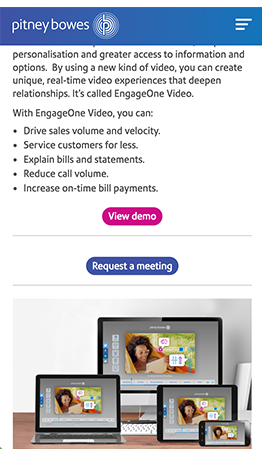
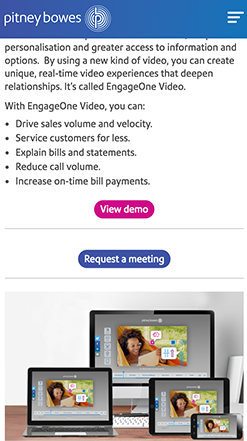
UI changes and animation effects

diff --git a/src/app/components/homepage/homepage.component.html b/src/app/components/homepage/homepage.component.html
@@ -1,3 +1,4 @@
+<div class="home" [@fadeInAnimation]>
 <header>
   <nav class="navbar navbar-expand-lg">
     <div class="container">
@@ -62,6 +63,13 @@
                     <a href="" class="white-btn">Learn More...</a>
                   </div>
                 </div>
+                <div class="item">
+                  <div class="product-info">
+                    <h1>SMB Apps</h1>
+                    <p>Lorem ipsum dolor sit amet, consectetur adipiscing elit, sed do eiusmod tempor incididunt ut labore et dolore magna aliqua. Ut enim ad minim veniam, quis nostrud exercitation ullamco laboris nisi ut aliquip ex ea commodo consequat. Duis aute irure dolor in reprehenderit in voluptate velit esse cillum dolore eu fugiat nulla pariatur.</p>
+                    <a href="" class="white-btn">Learn More...</a>
+                  </div>
+                </div>
               </owl-carousel>
             </div>
           </div>
@@ -84,6 +92,9 @@
                   </div>
                   <div class="item">
                     <img src="assets/images/homepage/li4m_screenshot.png" alt="">
+                  </div>
+                  <div class="item">
+                    <img src="assets/images/homepage/smbappsbg.png" alt="">
                   </div>
                 </owl-carousel>
               </div>
@@ -224,7 +235,7 @@
   <div class="container">
     <div class="row">
       <div class="col-md-12">
-        <div class="d-flex justify-content-between">
+        <div class="d-flex justify-content-between align-items-center">
             <h4>View our recently launched hackathons for SMB</h4>
             <a href="" class="white-btn">Watch Video</a>
         </div>
@@ -254,7 +265,8 @@
                       items: 1}" 
                       [carouselClasses]="['owl-theme', 'row', 'sliding']">
                   <div class="item testimonial-card text-center">
-                      <div class="row">
+                      <div class="row justify-content-center" >
+                        <div class="col-md-1"></div>
                         <div class="col-md-4">
                             <div class="icon">
                               <img src="assets/images/homepage/testimonypic.png" alt="">
@@ -262,7 +274,7 @@
                             <h4>Alexa William</h4>
                             <p>Google Inc.</p>
                         </div>
-                        <div class="col-md-8">
+                        <div class="col-md-7">
                           <h5>
                             Lorem ipsum dolor sit amet, consectetur adipiscing elit, sed do eiusmod tempor incididunt ut labore et dolore magna aliqua. Ut enim ad minim veniam, quis nostrud exercitation ullamco laboris nisi ut aliquip ex ea commodo consequat.
                           </h5>
@@ -272,6 +284,7 @@
 
                   <div class="item testimonial-card text-center">
                       <div class="row">
+                        <div class="col-md-1"></div>
                         <div class="col-md-4">
                             <div class="icon">
                               <img src="assets/images/homepage/testimonypic.png" alt="">
@@ -279,7 +292,7 @@
                             <h4>Alexa William</h4>
                             <p>Google Inc.</p>
                         </div>
-                        <div class="col-md-8">
+                        <div class="col-md-7">
                           <h5>
                             Lorem ipsum dolor sit amet, consectetur adipiscing elit, sed do eiusmod tempor incididunt ut labore et dolore magna aliqua. Ut enim ad minim veniam, quis nostrud exercitation ullamco laboris nisi ut aliquip ex ea commodo consequat.
                           </h5>
@@ -289,6 +302,7 @@
 
                   <div class="item testimonial-card text-center">
                       <div class="row">
+                        <div class="col-md-1"></div>
                         <div class="col-md-4">
                             <div class="icon">
                               <img src="assets/images/homepage/testimonypic.png" alt="">
@@ -296,7 +310,7 @@
                             <h4>Alexa William</h4>
                             <p>Google Inc.</p>
                         </div>
-                        <div class="col-md-8">
+                        <div class="col-md-7">
                           <h5>
                             Lorem ipsum dolor sit amet, consectetur adipiscing elit, sed do eiusmod tempor incididunt ut labore et dolore magna aliqua. Ut enim ad minim veniam, quis nostrud exercitation ullamco laboris nisi ut aliquip ex ea commodo consequat.
                           </h5>
@@ -332,3 +346,4 @@
     </div>
   </div>
 </footer>
+</div>

diff --git a/src/app/components/homepage/homepage.component.scss b/src/app/components/homepage/homepage.component.scss
@@ -5,7 +5,7 @@ header{
     min-height:500px;
     position:relative;
 	.pb-logo{
-		width:160px;
+		width:180px;
 		img{
 			width:100%
 		}
@@ -50,10 +50,10 @@ header{
     	background-position: center;
     	position:relative;
     	.innerImage{
-	     	width: 243px;
-		    position: absolute;
-		    top: 80px;
-		    left: 70px;
+     	    width: 243px;
+    		position: absolute;
+    		top: 74px;
+    		left: 69px;
     		img{
     			width:100%;
     		}
@@ -94,15 +94,26 @@ section#products{
 			text-align:center;
 			cursor:pointer;
 			.icon{
-				width:100px;
+				width:80px;
 				margin: 15px auto;
+				transition : 0.2s all;
 				img{
 					width:100%;
 				}
 			}
+			
 			h4{
+				transition : 0.2s all;
 				color:#717171;
 			}
+		}
+		.productBox:hover{
+				.icon{
+					transform:scale(1.2);
+				}
+				h4{
+					color:#000;
+				}
 		}
 	}
 	
@@ -124,7 +135,7 @@ section#solutions{
 	.solBox{
 		text-align:center;
 		.icon{
-		    width: 160px;
+		    width: 100px;
     		margin: 0 auto;
     		img{
     			width:100%;
@@ -155,7 +166,7 @@ section#upcomingFeatures{
 	}
 	.featureBox{
 		.icon{
-			width: 150px;
+			width: 100px;
     		margin: 0 auto;
     		img{
     			width:100%;
@@ -201,21 +212,26 @@ section#testimonials{
 
 		}
 		h5{
-			margin-top:30px;
+		    margin-top: 30px;
+    		margin-left: 10px;
+    		text-align: left;
+    		line-height: 1.3;
 		}
 	}
 }
 footer{
 	background:#000;
 	.pb-icon{
-		width:250px;
+		width: 140px;
+    	margin-top: 50px;
+    	margin-bottom: 10px;
 		img{
 			width:100%;
 		}
 	}
 	p{
 		color:#9b9b9b;
-		font-size:15px;
+		font-size:14px;
 	}
 	.platforms ul{
 		padding: 0;

diff --git a/src/app/components/homepage/homepage.component.ts b/src/app/components/homepage/homepage.component.ts
@@ -1,10 +1,27 @@
 import { Component, OnInit ,ViewChild} from '@angular/core';
 import {OwlCarousel} from 'ngx-owl-carousel';
 
+import { trigger, state, animate, transition, style } from '@angular/animations';
+
+
+
 @Component({
   selector: 'app-homepage',
   templateUrl: './homepage.component.html',
-  styleUrls: ['./homepage.component.scss']
+  styleUrls: ['./homepage.component.scss'],
+  animations: [trigger('fadeInAnimation', [
+ 
+        // route 'enter' transition
+        transition(':enter', [
+ 
+            // css styles at start of transition
+            style({ opacity: 0 }),
+ 
+            // animation and styles at end of transition
+            animate('0.7s', style({ opacity: 1 }))
+        ]),
+    ])]
+  
 })
 export class HomepageComponent implements OnInit {
 	@ViewChild('owlInfo') owlInfo: OwlCarousel;

diff --git a/src/app/app.module.ts b/src/app/app.module.ts
@@ -7,6 +7,7 @@ import { FormsModule, ReactiveFormsModule } from '@angular/forms';
 import { AppRoutingModule } from './app-routing/app-routing.module';
 import { OwlModule } from 'ngx-owl-carousel';
 import {Ng2PageScrollModule} from 'ng2-page-scroll';
+import { BrowserAnimationsModule } from '@angular/platform-browser/animations';
 
 import {LandingComponent} from './components/landing/landing.component';
 import { HomepageComponent } from './components/homepage/homepage.component'
@@ -23,7 +24,8 @@ import { HomepageComponent } from './components/homepage/homepage.component'
     FormsModule,
     AppRoutingModule,
     OwlModule,
-    Ng2PageScrollModule
+    Ng2PageScrollModule,
+    BrowserAnimationsModule
   ],
   providers: [],
   bootstrap: [AppComponent]
